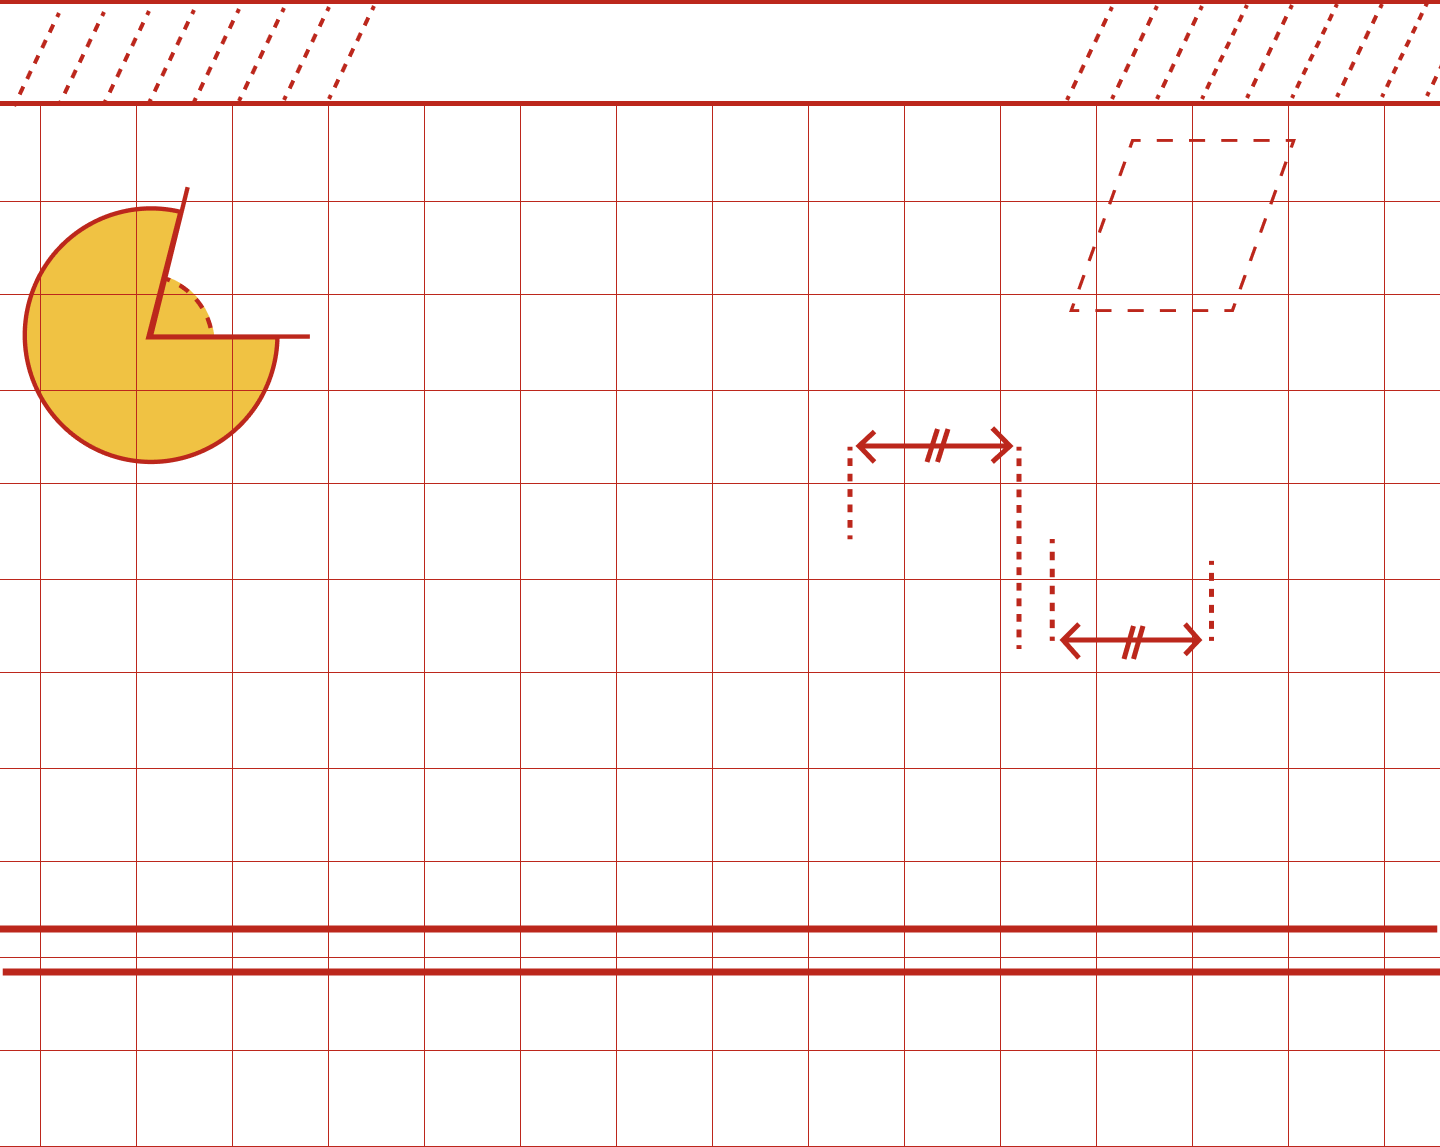
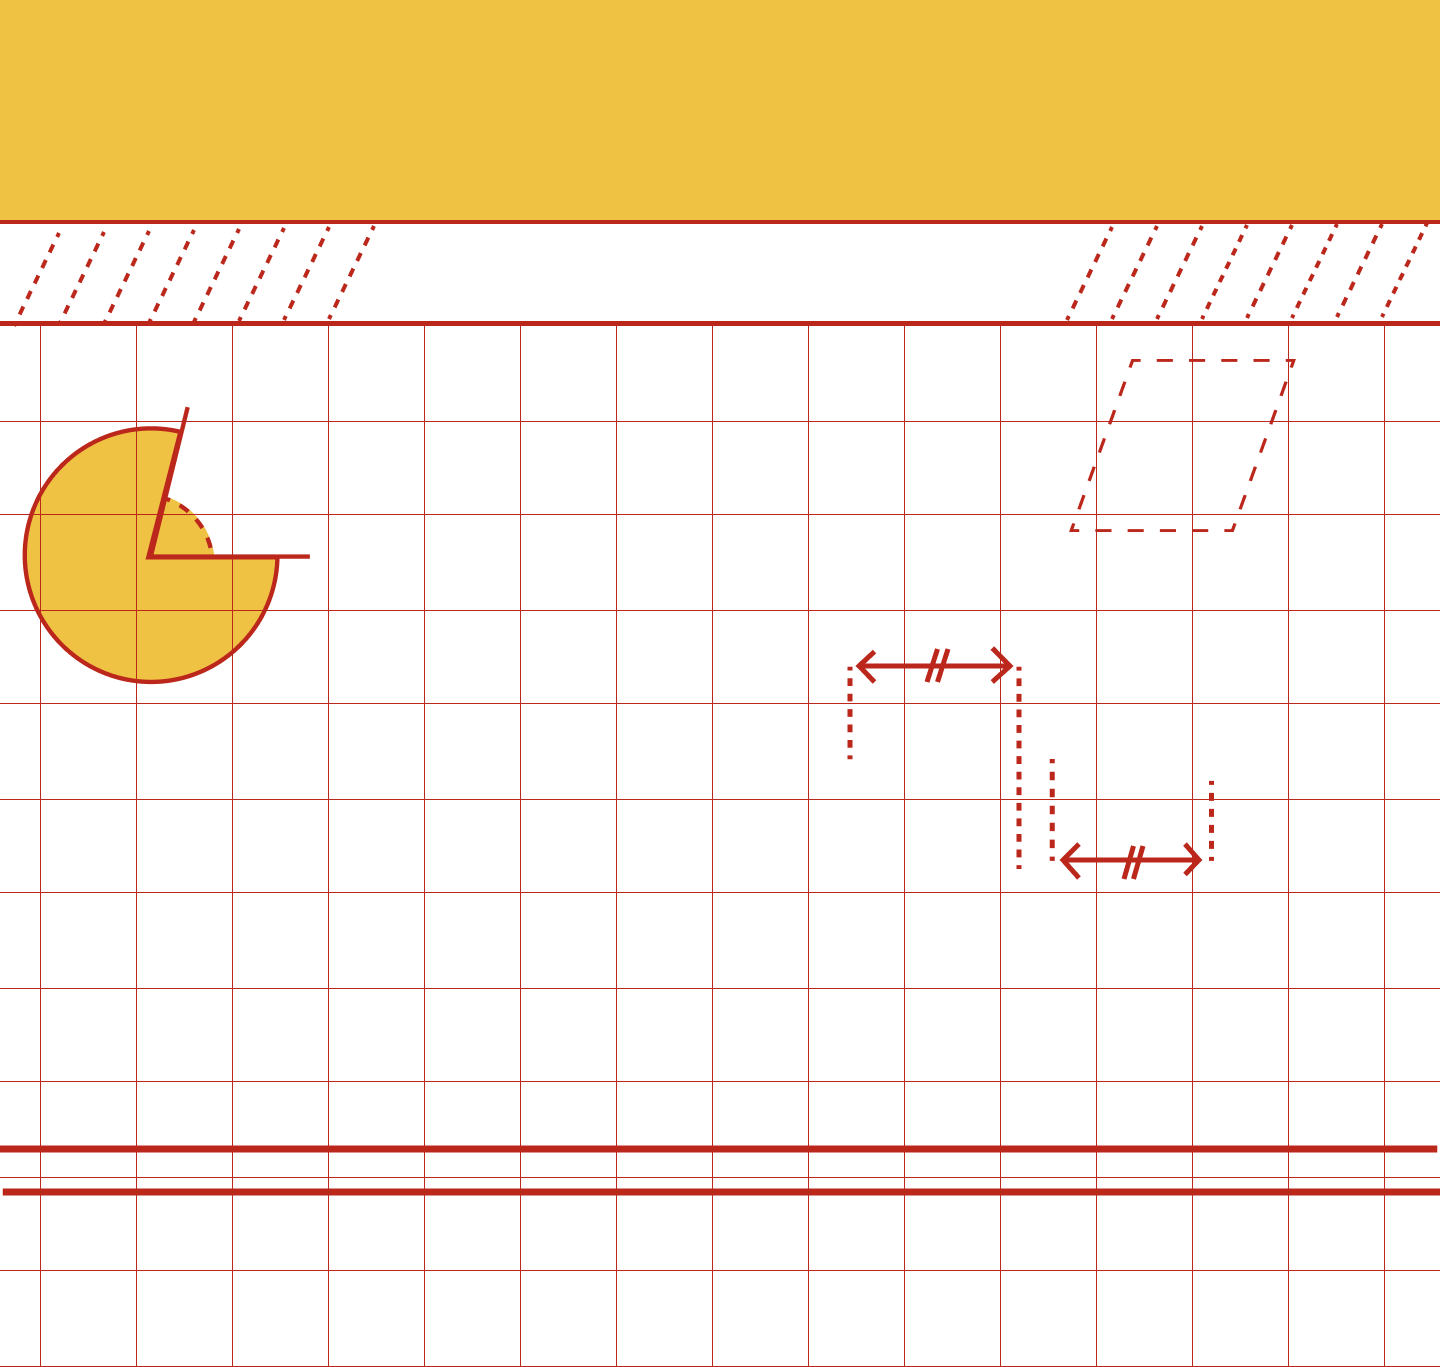
UPD First Screen

diff --git a/stylesheets/content.css b/stylesheets/content.css
@@ -20,7 +20,7 @@ html {
   font-family: "HalvarBreit-Blk";
   font-size: 150px;
   text-align: center;
-  padding-top: 184px;
+  padding-top: 197px;
   color: #BC271C;
   z-index: 5;
 }
@@ -37,35 +37,30 @@ html {
 }
 
 .letter1 {
-  font-family: "HalvarBreit-Lt";
-  font-size: 220px;
-  color: #BC271C;
-  padding-top: 100px;
-  padding-left: 852px;
-  z-index: 5;
-}
-
-.letter2 {
   font-family: "HalvarBreit-LtSlanted";
   font-size: 220px;
   color: #BC271C;
-  padding-top: 0px;
-  padding-left: 1052px;
+  padding-left: 824px;
+  padding-top: 110px;
   z-index: 4;
 }
 
-
-
-.img1 {
-  z-index: 1;
-  position: relative;
-  margin-top: 0px;
+.letter2 {
+  font-family: HalvarBreit-Blk;
+  font-size: 500px;
+  padding-left: 447px;
+  padding-top: 72px;
+  color: #BC271C;
 }
+
+
 
 .screen1 {
   width: 1440px;
-  height: 1147px;
+  height: 1367px;
   display: block;
   position: relative;
-  background: url("../images/First screen.png") 100% auto;
+  background-repeat: no-repeat;
+  background-image: url("../images/First screen.svg");
+  background-size: 100% auto;
 }

diff --git a/index.html b/index.html
@@ -14,8 +14,10 @@
   </head>
 <body>
   <div class="screen1">
-  <h1 class="cover1">HALVAR</h1>
-  <h1 class="cover2">breitschrift</h1>
-</div>
+    <h1 class="cover1">HALVAR</h1>
+    <h1 class="cover2">breitschrift</h1>
+    <p class="letter1">a</p>
+    <p class="letter2">ЭЗ</p>
+  </div>
 </body>
 </html>
